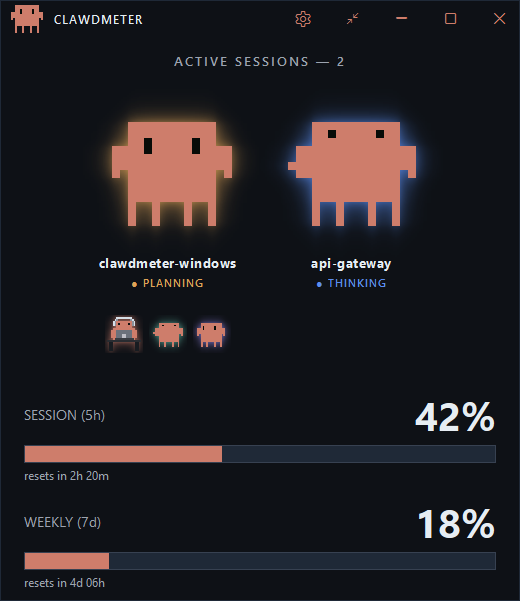
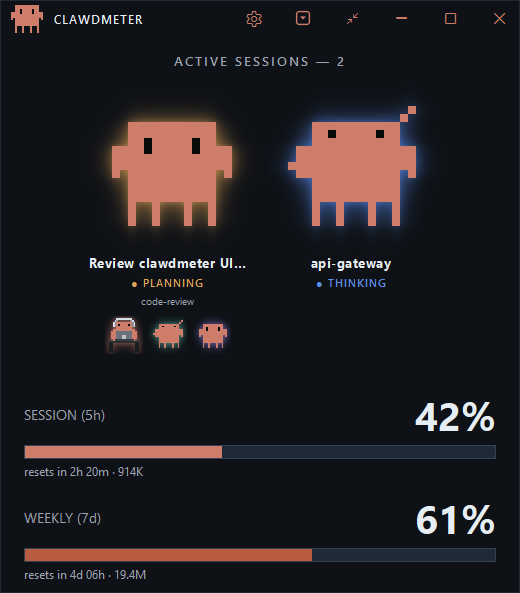
2.0: refresh README + screenshots for the 2.0 features
Document the three view modes (full / compact / mini with the square-caret
toggle + mini button), token usage (inline per-bar, per-session hover
breakdown, tray line, Settings toggle), weekly overage (red overflow past
100% / OVERAGE tag), the activity target line, and scrolling session titles.

Re-grab the shelf and subagents shots to show the new title bar, activity
targets and per-bar token totals; add overage, compact-list and mini shots;
drop the stale Screenshot-compact-view.png (the old mini). Hero GIF and the
Settings panel shot left for a separate manual refresh.

diff --git a/README.md b/README.md
@@ -10,11 +10,16 @@ Standalone Windows desktop dashboard for Claude Code usage.
 ## What it shows
 
 - **Session (5h) %** with reset countdown
-- **Weekly (7d) %** with reset countdown
+- **Weekly (7d) %** with reset countdown — and a red **overage** overflow when
+  you spill past 100% onto usage credits
+- **Token usage** for each window (input+output), inline beside the bars and
+  broken down per session
 - A **session shelf** — one Clawd mascot per active Claude Code session, each
   labeled with its session title and live activity (plus small child mascots for
   any subagents it spins up), falling back to a usage-rate mood when nothing's
   running
+- Three **view modes** — the full dashboard, a slim compact list, and a tiny
+  always-on-top mini readout
 - A system-tray icon whose fill arc tracks session % — **hover it for a quick
   session & weekly readout**
 
@@ -34,10 +39,15 @@ in near-real-time — read from the local transcript:
 | ![Integrating](assets/mood-integrating.png) | ![Planning](assets/mood-planning.png) |
 | **INTEGRATING** — MCP server tool | **PLANNING** — todos, sub-agents & task management |
 
-The small line under the label is the actual tool in flight (`Edit`, `Read`,
-`WebSearch`, …). For an **INTEGRATING** mood it names the MCP server and tool it's
-talking to (e.g. `github/list_issues`), so you can tell which integration Claude
-Code reached for.
+The small line under the label is **what Claude Code is acting on right now** —
+the file it's editing or reading (`transcript.py`), the pattern it's grepping,
+the command it's running, or the host it's fetching — so you can tell *what* it's
+working on, not just *that* it's working. When there's no natural target it falls
+back to the bare tool name (`Edit`, `Read`, …); for an **INTEGRATING** mood it
+names the MCP server and tool it's talking to (e.g. `github/list_issues`), so you
+can tell which integration Claude Code reached for. An idle session's line
+instead reads **last active …**, timed from the session's own last transcript
+event rather than the wall clock.
 
 When Claude Code goes quiet, the mascot falls back to a mood driven by your
 usage rate — sleepy when you're idle, dancing when you're burning through
@@ -49,13 +59,11 @@ Run more than one Claude Code session at once and each gets its own mascot on th
 **session shelf** — labeled with its **session title** (the one Claude Code shows
 for the conversation, or a custom title you've set, falling back to the project
 folder name) and its live activity, animating independently. Long titles are
-shortened to fit, with the full title on hover. The session/weekly usage bars
-stay account-wide (a single number from the API), shown once beneath the shelf.
+shortened to fit and **scroll into view when you hover** the label, with the full
+title on the tooltip. The session/weekly usage bars stay account-wide (a single
+number from the API), shown once beneath the shelf.
 
-> The screenshots below predate title-based labels and still show project-folder
-> names; the behavior is otherwise current.
-
-![Clawdmeter-Windows session shelf — one mascot per active Claude Code session, each with its project name and activity](assets/Screenshot-shelf.png)
+![Clawdmeter-Windows session shelf — one mascot per active Claude Code session, each with its session title, current activity and target, and per-window token totals on the bars](assets/Screenshot-shelf.png)
 
 When a session spins up subagents (the Agent/Task tool), a row of small **child
 mascots** appears under that session — one per live agent, each glowing with its
@@ -73,16 +81,54 @@ horizontally when more mascots are open than fit.)
 Don't want the shelf? In **Settings → Sessions**, turn **Show multiple sessions**
 off for a single mascot, and **Show subagents** off to hide the child mascots.
 
-## Compact view
+## Token usage
 
-Want something tiny that stays out of the way? Click the **compact-mode button**
-in the title bar to shrink the dashboard down to a small always-on-top readout —
-the mini mascot beside your session and weekly percentages, each with its reset
-time. It's frameless, keeps no taskbar entry, and is draggable (it remembers
-where you left it). **Double-click** it — or right-click → **Expand** — to pop
-back to the full dashboard.
+Alongside the percentages, Clawdmeter shows **how many tokens you've actually
+used** — read straight from your local Claude Code transcripts, no extra API
+calls. The headline figure is **input + output** (the cache reads that dominate
+raw totals are kept out of it, so the number reflects real work):
 
-![Clawdmeter-Windows compact view — a tiny always-on-top readout with the mascot and session and weekly percentages](assets/Screenshot-compact-view.png)
+- **Beside the bars** — the 5h total rides the Session reset line and the 7d
+  total rides the Weekly line (e.g. `resets in 2h 20m · 914K`).
+- **Per session** — each mascot's tile carries that session's running total;
+  hover the mascot for a full breakdown (input, output, and the cache buckets).
+- **In the tray tooltip** — a `Tokens 914K (5h) · 19.4M (7d)` line under the
+  usage readout.
+
+It's all behind one switch — **Settings → Token usage → Show token usage** (on
+by default). Turn it off and every token figure disappears.
+
+## Overage
+
+If you spill past your weekly limit onto **usage credits**, the Weekly bar says
+so without losing the plot: the coral bar stays full at 100%, a brighter-red
+segment grows in from the left, and the percentage keeps climbing past 100 — so
+**20% of overage reads as `120%`** — with a red **OVERAGE** tag next to
+*WEEKLY (7d)*. Hover the bar for when the overage window resets. It surfaces only
+when you're actually in overage and hides itself the rest of the time. (Overage
+is a weekly/account concept — there's no session overage.)
+
+![Clawdmeter-Windows weekly bar in overage — a full coral bar with a red overflow segment reading 120% and a red OVERAGE tag](assets/Screenshot-overage.png)
+
+## View modes
+
+Clawdmeter comes in three sizes and **remembers which one you left it in** across
+launches. Two controls in the title bar switch between them: a **square-caret
+toggle** flips between the full dashboard and the compact list, and a **mini
+button** drops to the tiny readout (from there, double-click — or right-click →
+**Expand** — to pop back to whichever view you came from).
+
+**Compact** is a slim, always-on-top list — the two usage bars on top, then one
+row per session: mascot, title, token total, and live activity + target — so you
+can keep tabs on several sessions in a fraction of the height.
+
+![Clawdmeter-Windows compact view — usage bars above a one-row-per-session list with mascot, title, tokens and activity](assets/Screenshot-compact-list.png)
+
+**Mini** shrinks all the way to a frameless, always-on-top chip — the mini mascot
+beside your session and weekly percentages, each with its reset time. It keeps no
+taskbar entry and is draggable (it remembers where you left it).
+
+![Clawdmeter-Windows mini view — a tiny always-on-top readout with the mascot and session and weekly percentages](assets/Screenshot-mini.png)
 
 ## Download
 
@@ -156,6 +202,9 @@ Open the settings panel from the gear icon in the title bar.
 - **Sessions** — **Show multiple sessions** (the session shelf; off shows a single
   mascot for the most recent session) and **Show subagents** (the child mascots).
   Both on by default.
+- **Token usage** — **Show token usage** toggles every token figure (the totals
+  beside the bars, the per-session tiles and hover breakdown, and the tray line).
+  On by default; read from your local transcripts, never the API.
 - **Usage polling** — how often the app checks your usage. Each check is a tiny
   billed API request, so the interval is adjustable from **10 to 600 seconds**
   (60 by default): lower is fresher but makes more requests; higher is gentler